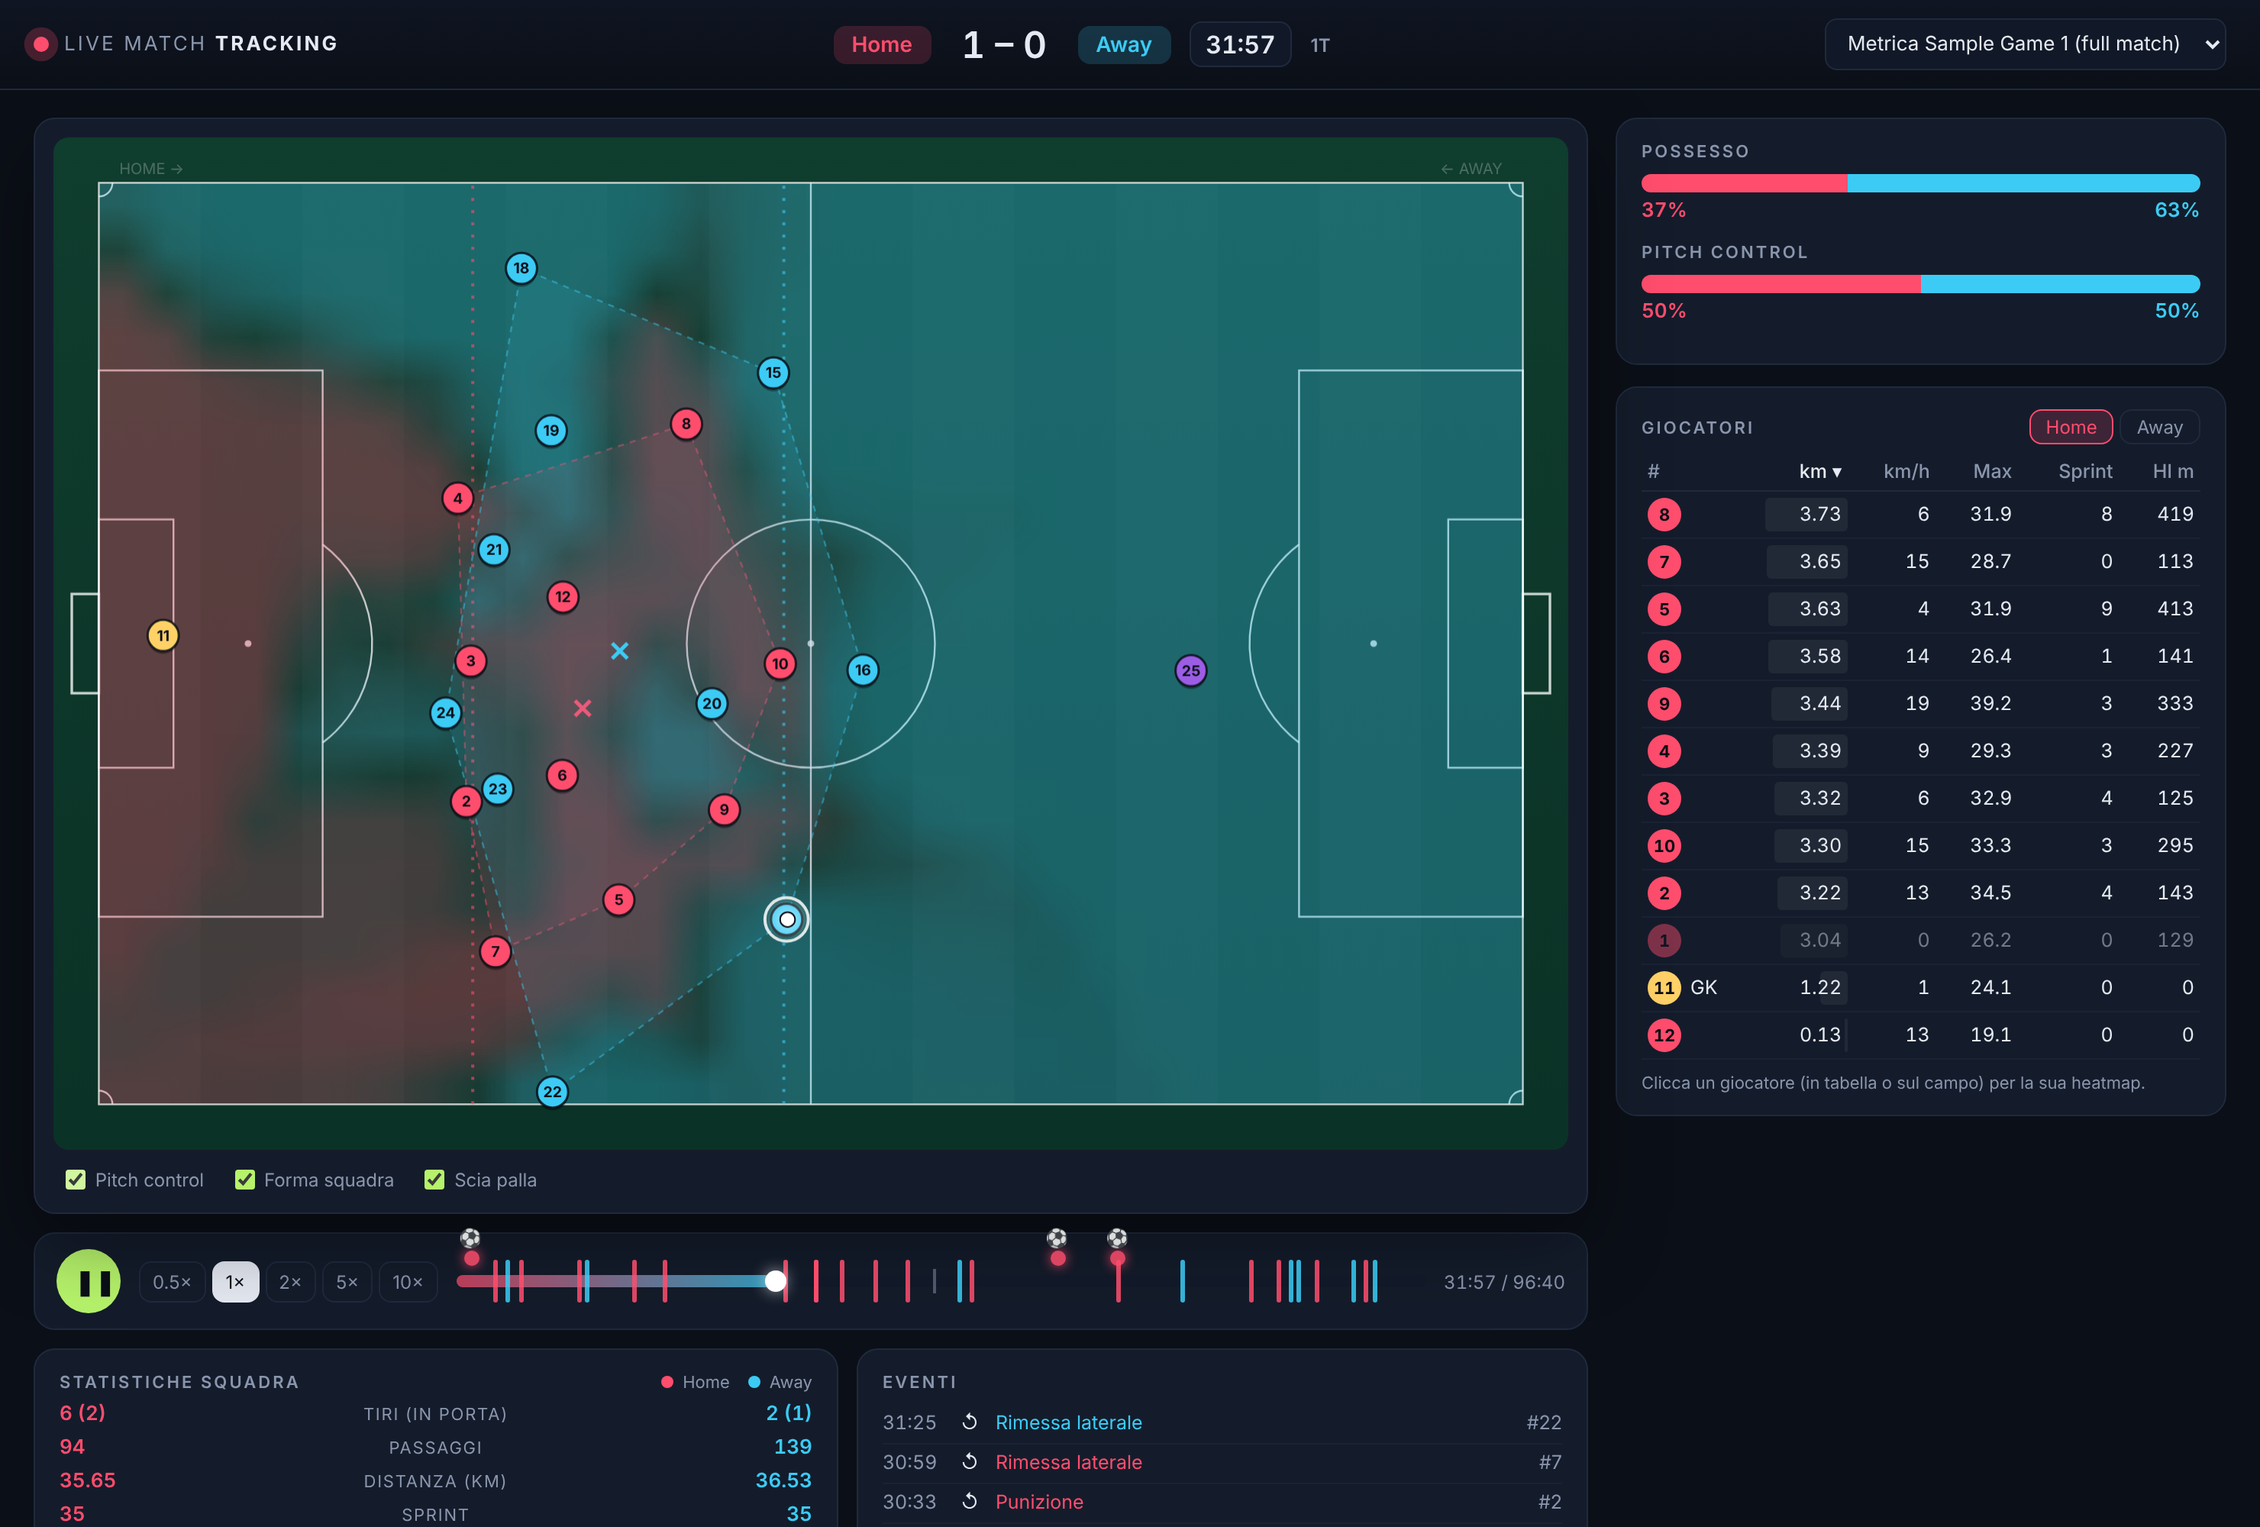
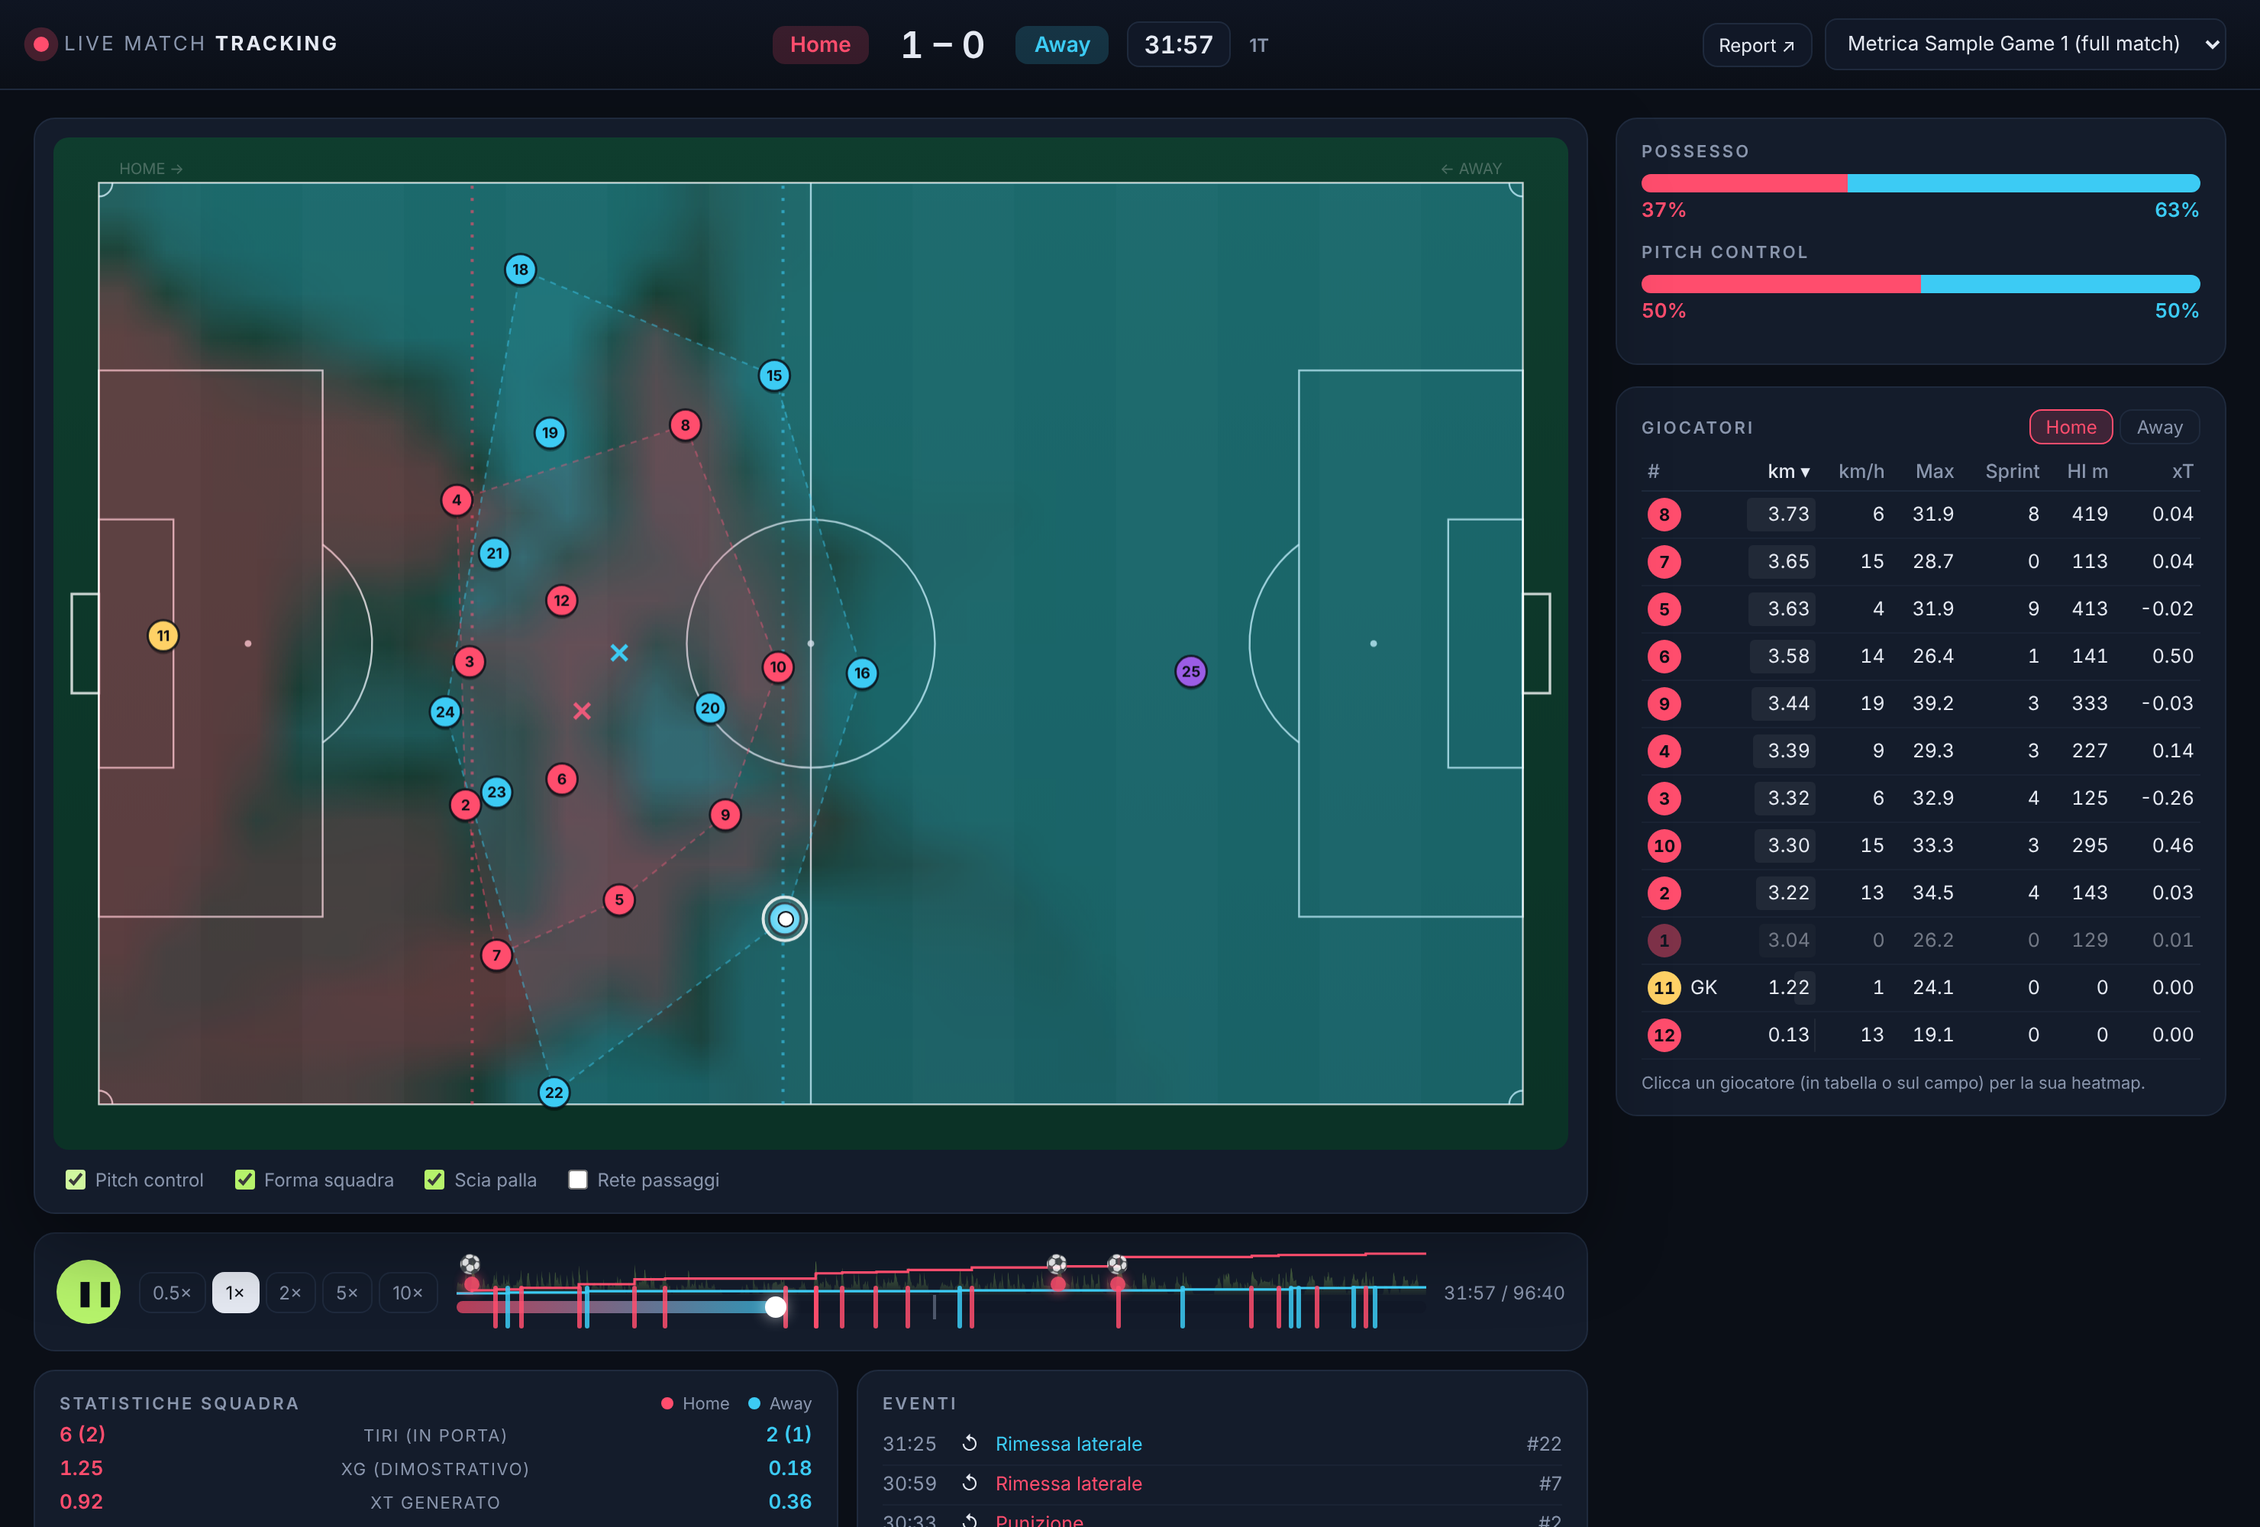
docs: refresh README (features, architecture, tests), roadmap and demo media with marketing view
Claude-Session: https://claude.ai/code/session_01GAuBfqmmfRHnuKNJaCPfuK

diff --git a/scripts/make_demo.js b/scripts/make_demo.js
@@ -4,8 +4,8 @@
  * full Metrica Game 1 downloaded):
  *   NODE_PATH=$(npm root -g) node scripts/make_demo.js
  *
- * Produces docs/demo.gif, docs/screenshot_pitch_control.png,
- * docs/screenshot_heatmap.png and docs/screenshot_mobile.png.
+ * Produces docs/demo.gif, docs/screenshot_pitch_control.png, docs/screenshot_heatmap.png,
+ * docs/screenshot_marketing.png and docs/screenshot_mobile.png.
  */
 const { chromium, devices } = require("playwright");
 const { execFileSync } = require("child_process");
@@ -79,6 +79,12 @@ async function goalFrame(n) {
   await p.click("#playersTable tbody tr:nth-child(1)");
   await sleep(1500);
   await p.screenshot({ path: path.join(DOCS, "screenshot_heatmap.png"), fullPage: true });
+
+  // marketing card (synthetic engagement) after the second goal
+  await p.evaluate((f) => window.__lmt.send({ cmd: "seek", frame: f }), gf + 25 * 120);
+  await p.waitForSelector("#mkCard:not([hidden])");
+  await sleep(2500);
+  await (await p.$("#mkCard")).screenshot({ path: path.join(DOCS, "screenshot_marketing.png") });
 
   const m = await browser.newContext({ ...devices["iPhone 13"] });
   const mp = await m.newPage();

diff --git a/README.md b/README.md
@@ -21,14 +21,21 @@ dei dati pubblici [Metrica Sports](https://github.com/metrica-sports/sample-data
 
 - **Replay "live"** a 0.5×, 1×, 2×, 5×, 10× con pausa, ripresa e seek su un punto qualsiasi della partita (click sulla timeline).
 - **WebSocket a 25 messaggi/s** con posizioni compatte; il browser interpola tra gli snapshot a 60 fps.
-- **Motore di statistiche incrementale**: ogni frame aggiorna lo stato delle metriche, nulla viene ricalcolato da zero.
-- **Pannello live**: barre possesso e pitch control, KPI di squadra (tiri, passaggi, distanza, sprint, alta intensità,
-  larghezza, lunghezza, linea difensiva, falli, velocità palla), tabella giocatori ordinabile, heatmap del giocatore
-  selezionato (click sul pallino o sulla riga), feed eventi, banner al gol, timeline con tiri/gol/cartellini.
-- **Overlay sul campo**: pitch control (rosso/azzurro), inviluppo convesso di ogni squadra con baricentro e linea difensiva,
+- **Motore di statistiche incrementale**: ogni frame aggiorna lo stato delle metriche, nulla viene ricalcolato da zero;
+  checkpoint su disco per seek e riavvii istantanei.
+- **Pannello live**: barre possesso e pitch control, KPI di squadra (tiri, xG, xT, passaggi, distanza, sprint, alta intensità,
+  larghezza, lunghezza, linea difensiva, falli, velocità palla), tabella giocatori ordinabile (anche per xT), heatmap del
+  giocatore selezionato, feed eventi, banner al gol (al passaggio della linea di porta), timeline con tiri/gol/cartellini,
+  xG cumulato ed excitement index.
+- **Overlay sul campo**: pitch control, forma di squadra (inviluppo, baricentro, linea difensiva), rete dei passaggi,
   scia della palla, anello sul giocatore in possesso.
-- 4 partite disponibili: Metrica Game 1 e Game 2 complete (se scaricate), un campione di 2 minuti incluso nel repo
-  e una partita sintetica generata.
+- **Feed live simulato end-to-end** (`--live-demo`): fake provider con formato diverso, pacchetti persi/fuori ordine e
+  disconnessioni → adattatore con jitter buffer → badge LIVE, DVR e "Torna al live".
+- **Analytics dimostrative**: xT, xG, reti di passaggi e **report post-partita** HTML autonomo.
+- **Angolo marketing**: excitement index per secondo e scheda che lo confronta con serie di engagement
+  (**dati sintetici dimostrativi**), con event study e correlazione.
+- 4 partite: Metrica Game 1 e Game 2 complete (se scaricate), un campione di 2 minuti incluso nel repo (con un gol)
+  e una partita sintetica. Più la partita "● LIVE demo" in modalità `--live-demo`.
 
 ## Avvio rapido
 
@@ -64,6 +71,23 @@ Una partita specifica si apre con `http://127.0.0.1:8000/?match=metrica_game_2`.
 
 Comandi da tastiera: **spazio** = play/pausa. Click sulla timeline = seek. Click su un giocatore = heatmap.
 
+Altri comandi:
+
+```bash
+python -m livematch --live-demo
+```
+
+```bash
+python -m livematch.report sample_game_1 -o report.html
+```
+
+```bash
+python scripts/make_synthetic_engagement.py sample_game_1
+```
+
+Il primo avvia il feed live simulato (vedi sotto), il secondo genera il report post-partita, il terzo scrive un CSV di
+engagement **sintetico** in `data/synthetic/`. `python scripts/fit_models.py` riaddestra i modelli dimostrativi xT/xG.
+
 ### Test e lint
 
 ```bash
@@ -74,8 +98,11 @@ python -m pytest
 ruff check . && ruff format --check .
 ```
 
-I test (57) coprono loader e conversione coordinate, replay (timing, velocità, seek), ogni metrica con casi dal risultato
-noto, sessione (nessun frame perso a 10×, seek coerente), API REST e WebSocket, adattatore live ed end-to-end sul campione.
+I test (96) coprono loader e conversione coordinate, cache su disco (hit, stale, corrotta), rilevamento del gol, replay
+(timing, velocità, seek) e LiveClock, ogni metrica con casi dal risultato noto, sessione (nessun frame perso a 10×, seek
+coerente), API REST e WebSocket, feed live (jitter buffer, ricostruzione esatta dal formato del provider, perdite e
+riordino, end-to-end su WebSocket con disconnessioni), xT/xG/rete passaggi, report, excitement index, engagement
+(allineamento, lift, ritardo) ed end-to-end sul campione.
 La CI GitHub Actions (`.github/workflows/ci.yml`) esegue ruff e pytest a ogni push.
 
 ## Architettura
@@ -85,20 +112,24 @@ flowchart LR
     subgraph Sorgenti["sources/ (intercambiabili)"]
         M[metrica.py<br/>CSV Metrica] --> DS
         S[synthetic.py<br/>generatore] --> DS
-        L[live_stub.py<br/>feed live] -.-> DS
+        L[live_stub.py<br/>ProviderFeedSource<br/>jitter buffer] --> DS
         DS{{DataSource<br/>interfaccia astratta}}
     end
+    FP[live/provider.py<br/>fake provider WS<br/>formato estraneo] -->|25 Hz, perdite,<br/>riordino, disconnessioni| L
+    M -.-> CA[(cache.py<br/>.cache/ npz + checkpoint)]
     DS --> SES[session.py<br/>MatchSession]
-    RC[replay.py<br/>ReplayClock<br/>play/pausa/seek/velocità] --> SES
+    RC[replay.py<br/>ReplayClock / LiveClock<br/>velocità, seek, DVR] --> SES
     SES --> ENG[metrics/engine.py<br/>MetricsEngine incrementale]
-    ENG --> K[cinematica<br/>sprint / HI]
-    ENG --> H[heatmap]
-    ENG --> P[possesso]
-    ENG --> SH[forma squadra]
-    ENG --> PC[pitch control]
-    ENG --> EV[eventi]
-    CK[CheckpointStore<br/>thread in background] -.checkpoint ogni minuto.-> SES
+    ENG --> K[cinematica, sprint/HI,<br/>heatmap, possesso,<br/>forma, pitch control]
+    ENG --> TH[threat.py<br/>xT / xG live]
+    ENG --> EX[excitement.py<br/>indice per secondo]
+    AN[analytics/<br/>xT, xG, passaggi<br/>models.json] --> TH
+    CK[CheckpointStore<br/>background + disco] -.checkpoint ogni minuto.-> SES
+    CA -.-> CK
     SES --> API[api.py<br/>FastAPI REST + WebSocket]
+    EX --> MK[engagement/<br/>allineamento, event study<br/>dati SINTETICI]
+    MK --> API
+    API --> REP[report.py<br/>HTML post-partita]
     API <-->|JSON ~25 msg/s<br/>comandi| WEB[web/<br/>index.html + app.js + canvas]
 ```
 
@@ -220,6 +251,8 @@ Coordinate in metri, campo 105 × 68, origine in basso a sinistra; **la squadra 
   curva di engagement sintetica fino al minuto corrente, momenti chiave ordinati per lift (cliccabili per rivederli),
   correlazione massima e relativo ritardo. Endpoint: `GET /api/matches/{id}/marketing`.
 
+![Scheda Marketing con excitement index ed engagement sintetico](docs/screenshot_marketing.png)
+
 Esempio sul Game 1 (dati sintetici): lift del 1° gol +369%, del 2° +260%; correlazione massima excitement/engagement
 r = 0.37 con 20 s di ritardo. Questi numeri descrivono il generatore sintetico, non un pubblico reale.
 
@@ -301,6 +334,8 @@ Metriche, API e frontend restano invariati: dipendono solo da `DataSource`.
 ## Documentazione
 
 - [`docs/data_format.md`](docs/data_format.md) — formato dei dati Metrica, verificato sui file reali.
+- [`docs/excitement_index.md`](docs/excitement_index.md) — formula, pesi e normalizzazione dell'excitement index.
+- [`docs/deploy.md`](docs/deploy.md) — Docker, Fly.io, Render (istruzioni, nessun deploy eseguito).
 - [`DECISIONS.md`](DECISIONS.md) — scelte progettuali e motivazioni.
 - [`PROGRESS.md`](PROGRESS.md) — stato del lavoro e prossimi passi.
 - [`ROADMAP.md`](ROADMAP.md) — idee future (tracking da video, xT, xG, marketing analytics).

diff --git a/ROADMAP.md b/ROADMAP.md
@@ -1,29 +1,38 @@
 # Roadmap
 
-Idee per le prossime evoluzioni, in ordine indicativo di valore/fattibilità.
+Idee per le prossime evoluzioni. Fatto nella seconda sessione (e quindi tolto da qui): cache su disco, Dockerfile e
+istruzioni di deploy, feed live simulato con jitter buffer e DVR, xT/xG dimostrativi, reti di passaggi, report
+post-partita, excitement index ed engagement (sintetico).
 
 ## 1. Prodotto live
-- **Feed live reale**: completare `sources/live_stub.py` per un provider (es. feed ottico a 25 Hz via WebSocket), con jitter buffer e "live edge" nel client.
-- **Sessioni condivise ("watch party")**: più spettatori sincronizzati sulla stessa sessione via un canale broadcast (Redis pub/sub) invece di un replay per connessione.
-- **Persistenza**: salvare i checkpoint delle metriche su disco (parquet/npz) per eliminare il pre-calcolo all'avvio; cache dei CSV convertiti.
-- **Docker + deploy** (Fly.io / Render) con una demo pubblica sul campione.
+- **Provider reale**: client per un feed commerciale (autenticazione, formazioni e cambi, orologio ufficiale, eventi
+  corretti/annullati) sull'adattatore `ProviderFeedSource` già testato con il fake provider.
+- **Watch party con Redis**: più spettatori sincronizzati sulla stessa sessione via pub/sub invece di un replay per
+  connessione; il server calcola le metriche una volta sola per partita.
+- **Deploy reale** di una demo pubblica sul campione (Fly.io o Render, vedi `docs/deploy.md`) e build Docker verificata in CI.
+- **Persistenza del flusso live** (disco o Kafka) per rivedere la partita dopo il fischio finale.
 
-## 2. Tracking da video (computer vision, su GPU)
+## 2. Dati
+- **Loader per Metrica Sample Game 3 (formato EPTS/FIFA)**: tracking in `.txt` + metadata XML + eventi JSON, da
+  ispezionare (frequenza, sistema di coordinate, id giocatori) come fatto per i CSV in `docs/data_format.md`.
+- Altri dataset pubblici di tracking (es. SkillCorner open data broadcast tracking, con giocatori fuori inquadratura).
+
+## 3. Tracking da video (computer vision, su GPU)
 - Pipeline **YOLO (detection giocatori/palla) + ByteTrack (tracking multi-oggetto)** su video broadcast o tattico.
-- **Omografia del campo** (keypoint delle linee) per passare da pixel a metri e assegnazione delle squadre per colore della maglia (k-means su crop).
+- **Omografia del campo** (keypoint delle linee) per passare da pixel a metri e assegnazione delle squadre per colore
+  della maglia (k-means sui crop).
 - Output nello stesso schema interno (`Frame`), così la pipeline video diventa solo un'altra `DataSource`.
 
-## 3. Analytics avanzate
-- **Expected Threat (xT)**: griglia di valore delle zone, valore aggiunto di passaggi e conduzioni, classifica dei giocatori per xT generato.
-- **Expected Goals (xG)**: modello logistico/gradient boosting su distanza, angolo, pressione dei difensori (dal tracking) e parte del corpo; xG cumulato sulla timeline.
-- **Pitch control completo** (Spearman 2017 con integrazione temporale) e **EPV** (Expected Possession Value).
-- **Pressing**: PPDA, intensità e distanza del pressing dal tracking; riconoscimento automatico di passaggi e transizioni.
+## 4. Analytics avanzate
+- xT e xG addestrati su **molte** partite (con feature di tracking: pressione, posizione del portiere, parte del corpo)
+  e validati (calibrazione, Brier score) prima di usarli per valutare giocatori.
+- **Pitch control completo** (Spearman 2017 con integrazione temporale) ed **EPV**.
+- **Pressing**: PPDA, intensità e distanza del pressing dal tracking; riconoscimento automatico di transizioni.
 - **Formazioni dinamiche**: clustering delle posizioni medie per fase (possesso / non possesso).
-- Report post-partita automatico (PDF/HTML) con le metriche chiave.
 
-## 4. Integrazione con dati di engagement per il marketing
-- **Momenti chiave → engagement**: allineare la timeline della partita (gol, occasioni, picchi di intensità, cambi di possesso) con serie temporali di audience, social, app e second screen, per misurare quali momenti generano attenzione.
-- **"Excitement index"** in tempo reale (xG, velocità del gioco, vicinanza alla porta, punteggio) come segnale per notifiche push, highlight automatici e posizionamento degli spazi pubblicitari.
-- **Segmentazione dei tifosi** in base ai contenuti consumati (heatmap, statistiche giocatore) e A/B test di nuove visualizzazioni nell'app.
-- **Modelli di propensione** (churn/upsell) che usano l'esposizione ai momenti chiave come feature.
-- Dashboard per il marketing con KPI di partita e di engagement affiancati.
+## 5. Marketing
+- **Calibrare i pesi dell'excitement index su dati reali** di audience (regressione dell'engagement sulle componenti con
+  ritardo), mantenendo i dati fuori dal repository.
+- Uso in tempo reale dell'indice: trigger di notifiche push, clip/highlight automatici, posizionamento dei contenuti.
+- Segmentazione dei tifosi per contenuti consumati e A/B test di nuove visualizzazioni nell'app.
+- Modelli di propensione (churn/upsell) con l'esposizione ai momenti chiave come feature.
